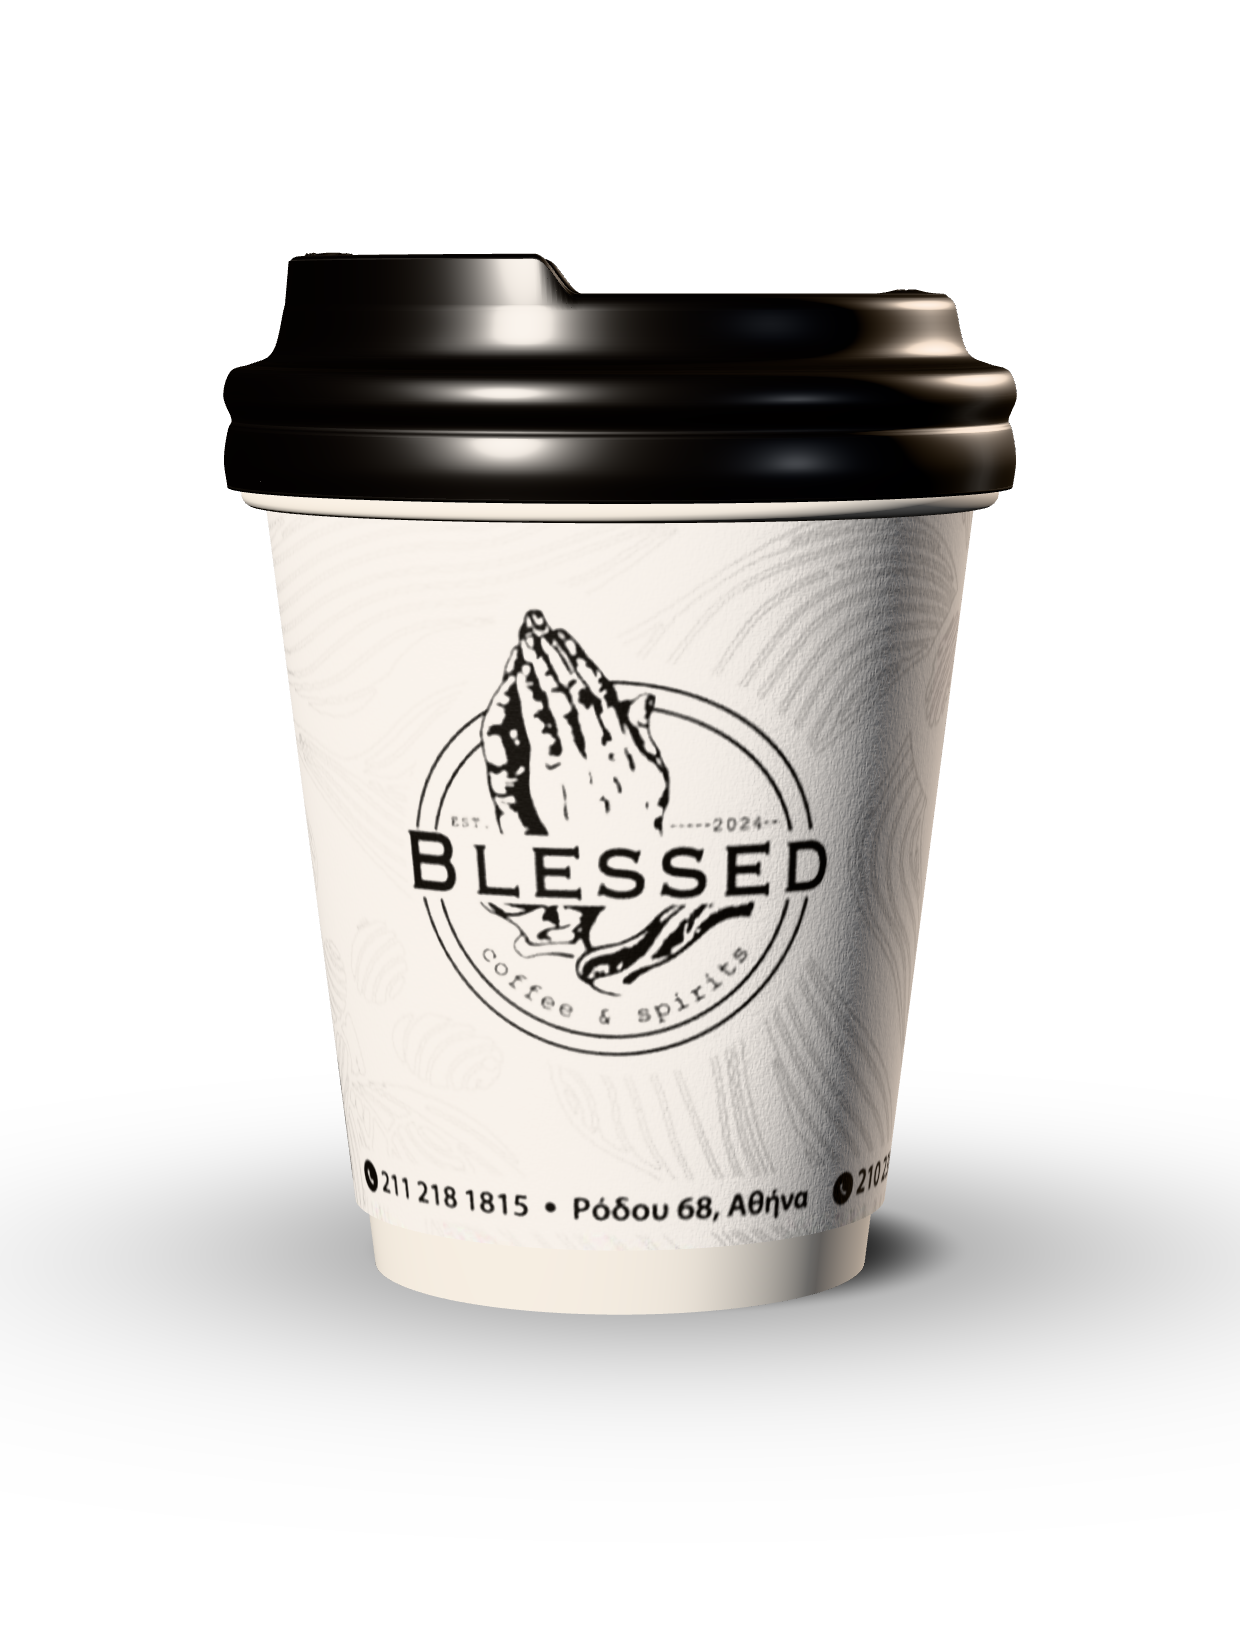
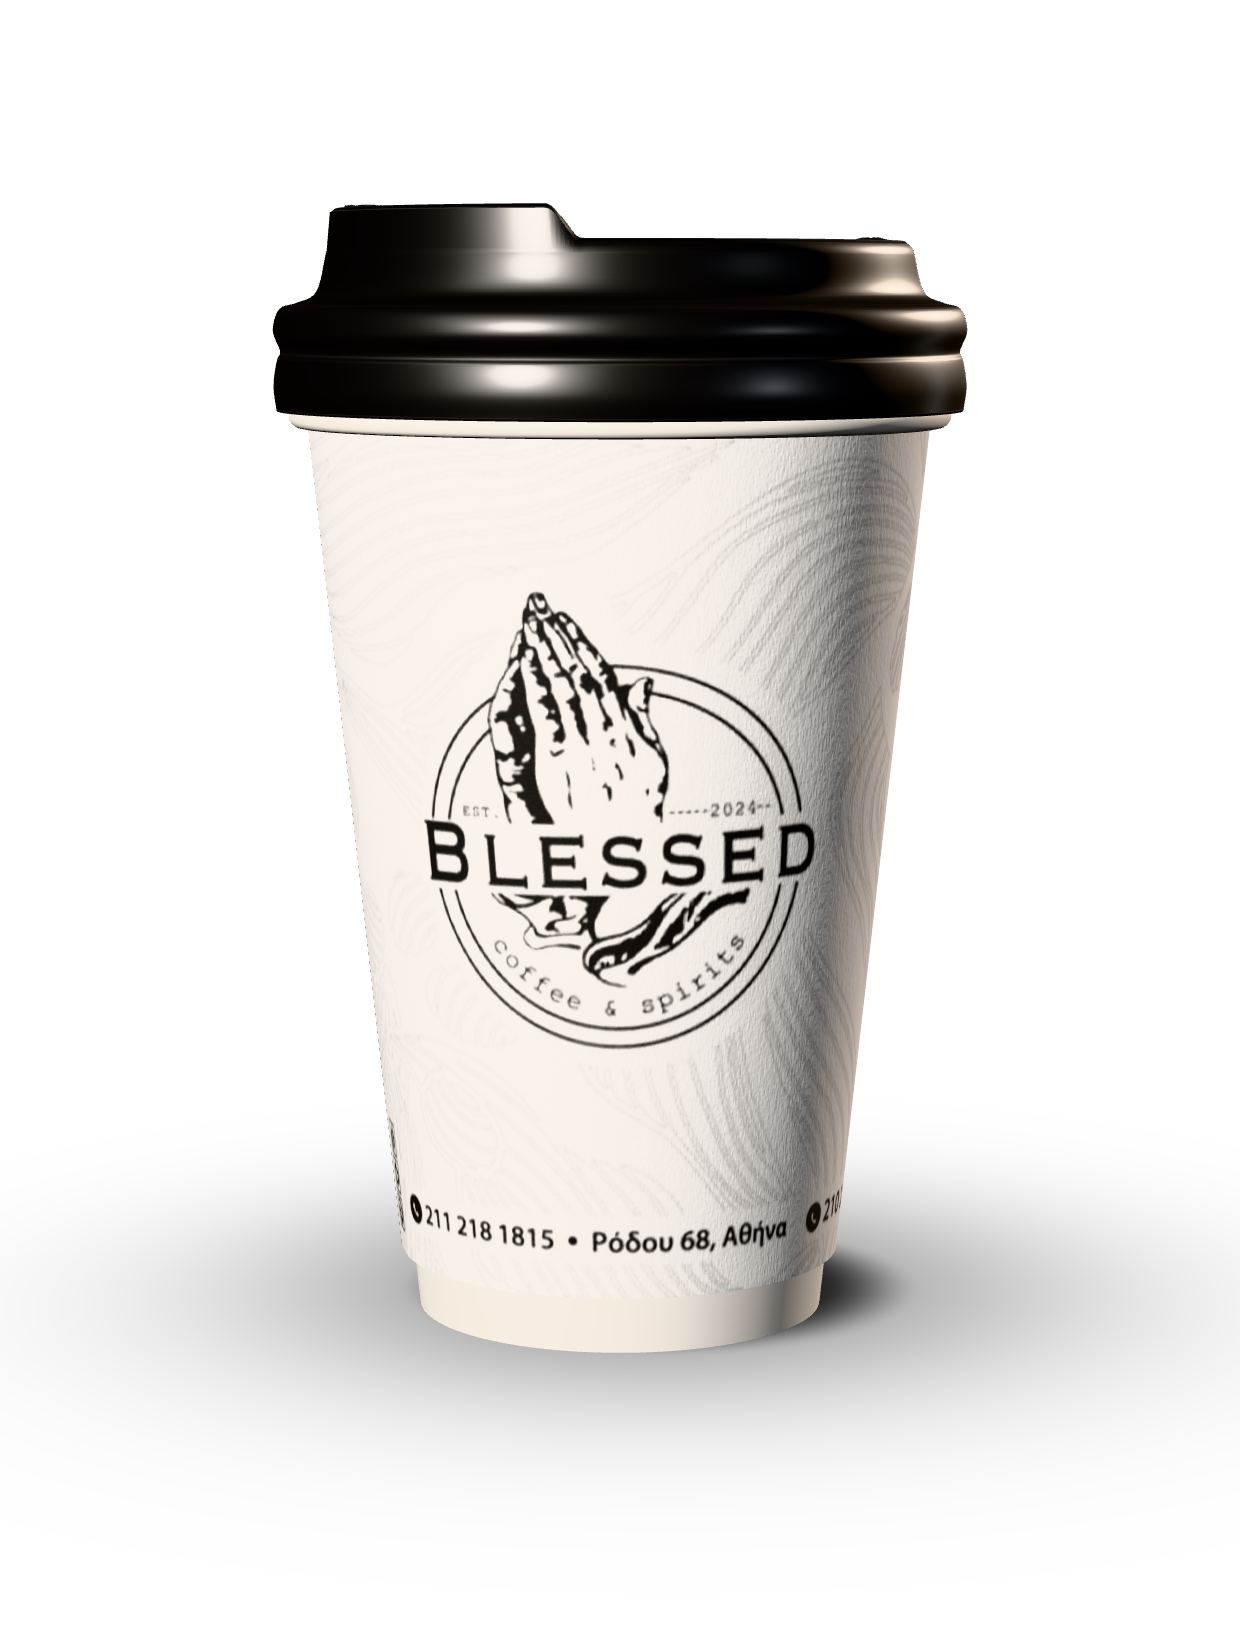
revert(cup): back to the 16oz cup, keep the 8.5mm base ring

Changed region(s): [[0.1839, 0.1244, 0.8581, 0.8707]]

diff --git a/src/scripts/cup.js b/src/scripts/cup.js
@@ -1,17 +1,16 @@
-// The 12oz Blessed cup in 3D, wrapped in the printer's die-line (social/cup/dieline), restaged as a
+// The 16oz Blessed cup in 3D, wrapped in the printer's die-line (social/cup/dieline), restaged as a
 // studio product shot. Drag to turn it: momentum carries the flick and it settles on the nearest printed panel.
 import * as THREE from 'three';
 import { project, velocityTracker, springTo, prefersReducedMotion } from './spring.js';
 
 // Panel centres in turns (logo, slogan), measured off the unwrapped die-line (social/cup/dieline/unwrap.py).
-export const PANELS = [0, 0.482];
-// 12oz: same 90mm lid as before, sleeve taper and height from the die-line.
-const H = 100.5, RT = 45, RB = 33;
+export const PANELS = [0, 0.474];
+const H = 132.8, RT = 45, RB = 31.2;
 // Double wall: the printed sleeve ends FOLD mm up (its 6mm fold tucks inward there); below it the plain,
 // stiffer base cup shows as a ring GAP mm narrower.
 const FOLD = 8.5, GAP = 1.5, rAt = (y) => RB + ((RT - RB) * y) / H;
 // Label u for a cup turned t turns is 0.5 - t. The paper side seam goes where the die-line's edges meet.
-const SEAM_U = 0.24;
+const SEAM_U = 0.2535;
 
 // Paper grain as a tiling normal map: wrapped value noise, fibres a little longer than they are wide.
 function grain(N = 256) {
@@ -243,9 +242,9 @@ export async function mount(canvas, labelUrl) {
   const { scene, tilt, cup, steam, vent } = await studioScene(renderer, labelUrl);
 
   // 'front' framing from shots.mjs, so the poster image and the live canvas line up.
-  const camera = new THREE.PerspectiveCamera(21, 620 / 820, 300, 900);
-  camera.position.set(0, 123, 560);
-  camera.lookAt(0, 57, 0);
+  const camera = new THREE.PerspectiveCamera(24, 620 / 820, 300, 900);
+  camera.position.set(0, 150, 560);
+  camera.lookAt(0, 72, 0);
 
   steam.quaternion.copy(camera.quaternion);
   steam.visible = !reduced;

diff --git a/social/cup/cup.html b/social/cup/cup.html
@@ -43,11 +43,11 @@ const camera = new THREE.PerspectiveCamera(24, innerWidth / innerHeight, 20, 300
 
 // Posed stills and reels (social/cup/shots.mjs, social/render-reels.mjs). Every field is optional;
 // anything left out falls back to the site's 'front' framing and studio light. rot is in turns:
-// 0 = logo panel, 0.482 = slogan panel. The paper seam sits at 0.26: never hold a close-up there. shadow scales the contact shadow, steam is the steam's
+// 0 = logo panel, 0.474 = slogan panel. The paper seam sits at 0.2465: never hold a close-up there. shadow scales the contact shadow, steam is the steam's
 // clock in seconds (left out: no steam).
 const D = { keyPos: key.position.toArray(), keyI: key.intensity, keyAngle: key.angle, rimI: rim.intensity, env: scene.environmentIntensity };
 const v3 = new THREE.Vector3();
-window.pose = ({ rot = 0, tilt: z = 0, lean = 0, lift = 0, cam = [0, 123, 560], look = [0, 57, 0], fov = 21,
+window.pose = ({ rot = 0, tilt: z = 0, lean = 0, lift = 0, cam = [0, 150, 560], look = [0, 72, 0], fov = 24,
                  keyPos = D.keyPos, keyI = D.keyI, keyAngle = D.keyAngle, rimI = D.rimI, env = D.env, exposure = 1,
                  shadow = 1, steam: st } = {}) => {
   tilt.rotation.set(lean, 0, z);

diff --git a/social/cup/dieline/unwrap.py b/social/cup/dieline/unwrap.py
@@ -1,21 +1,21 @@
-# Unwraps the printer's flat 12oz die-line (dieline/12oz.jpg, a phone screenshot of their proof) into the
+# Unwraps the printer's flat 16oz die-line (dieline/16oz.jpg, a phone screenshot of their proof) into the
 # rectangular label the 3D cup wraps (src/assets/cup-label.jpg): u runs once round the cup from the paper
 # seam, v from the bottom fold up to the rim. Measured off the screenshot: the arcs share a centre, the
-# side edges are radial at -18.28 / +18.08 deg, the cut line's top arc is r 1900 and the bottom fold r 1480.
+# side edges are radial at +-15.93 deg, the cut line's top arc is r 2176 and the bottom fold r 1645.
 #   python3 social/cup/dieline/unwrap.py [roll]   roll = turns to shift so the logo faces front
 import sys
 import numpy as np
 from PIL import Image
 
 HERE = __file__.rsplit('/', 1)[0]
-CX, CY = 682.83, 2946.11
-R_TOP, R_FOLD = 1894, 1485          # a few px inside the yellow cut line and the pink fold line
-TH_L = np.radians(-18.28 + 0.15)    # skip the yellow side edge
-TH_R = np.radians(18.08 - 0.94)     # last 7mm hide under the flap (31px at the rim)
+CX, CY = 659.53, 3200.02
+R_TOP, R_FOLD = 2170, 1650          # a few px inside the yellow cut line and the pink fold line
+TH_L = np.radians(-15.93 + 0.15)    # skip the yellow side edge
+TH_R = np.radians(15.93 - 0.86)     # last 7mm hide under the flap (32px at the rim)
 W, H, UP = 3072, 1024, 3
 roll = float(sys.argv[1]) if len(sys.argv) > 1 else 0
 
-src = Image.open(f'{HERE}/12oz.jpg').convert('RGB')
+src = Image.open(f'{HERE}/16oz.jpg').convert('RGB')
 src = np.asarray(src.resize((src.width * UP, src.height * UP), Image.LANCZOS)).astype(np.float32)
 u = (np.arange(W) + 0.5) / W
 v = (np.arange(H) + 0.5) / H
